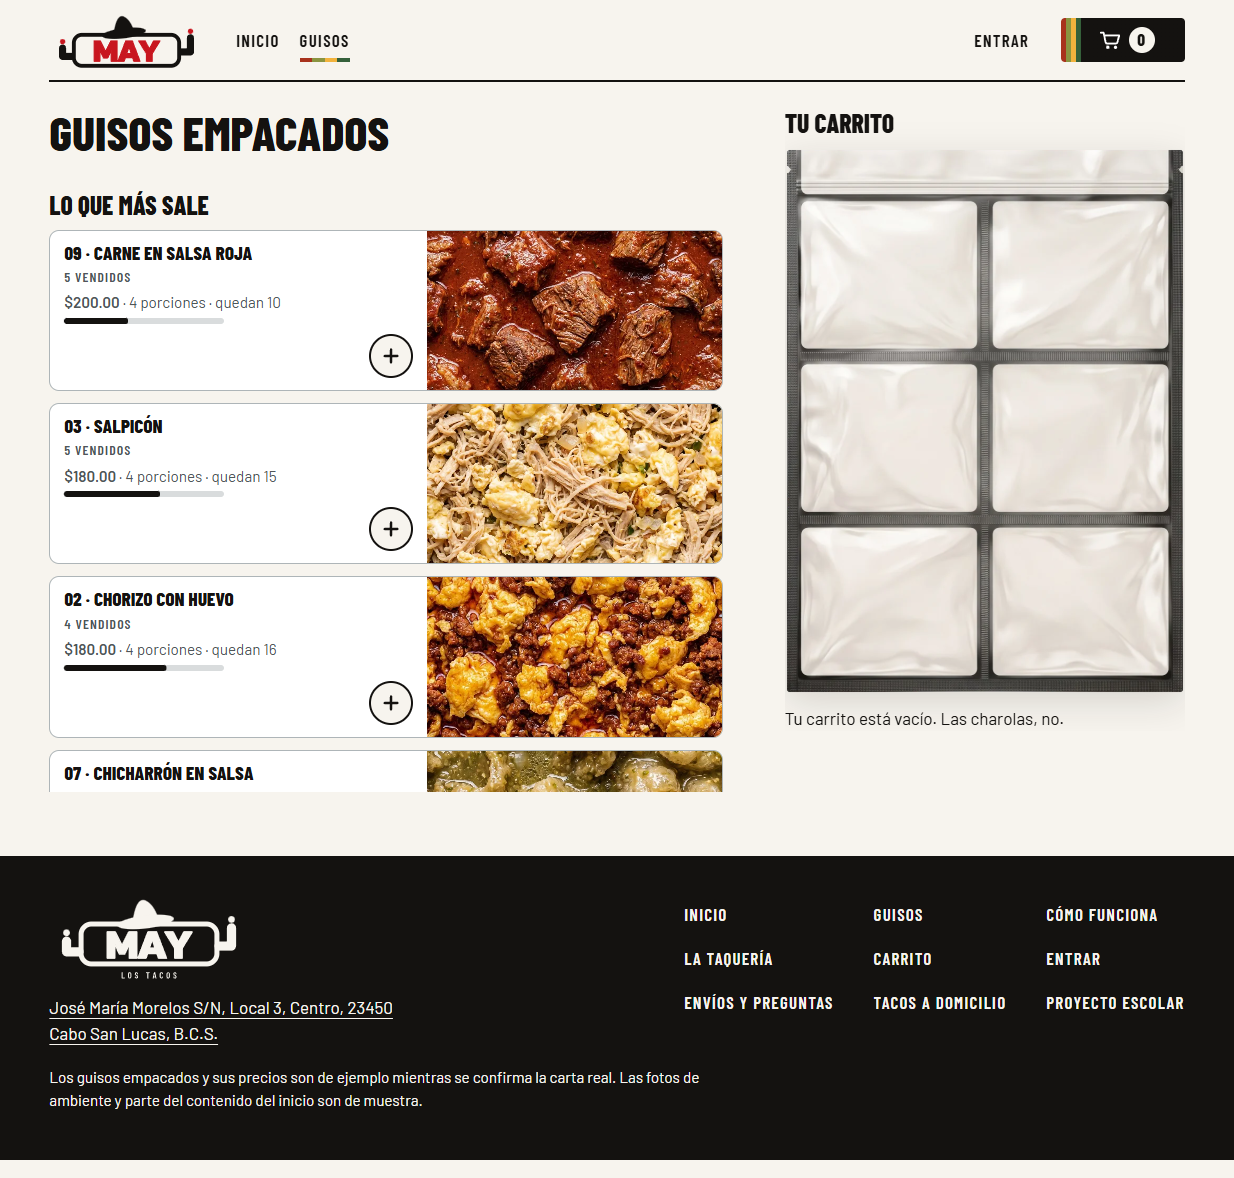
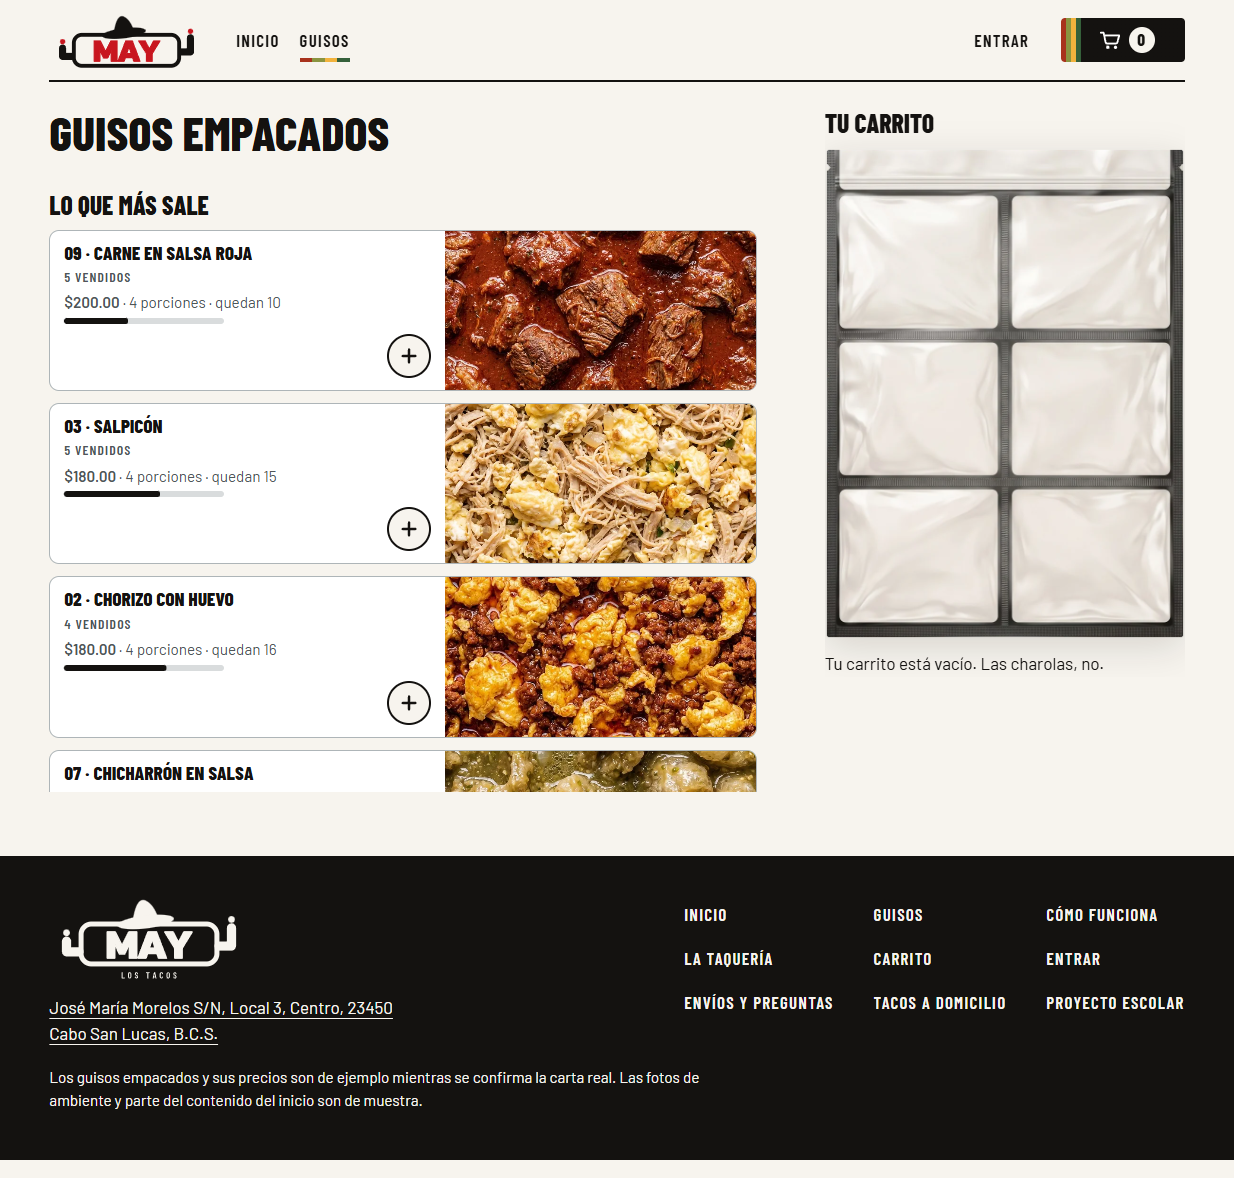
docs(calidad): lista y bolsa medidas a 5 anchos; carrito real capturado con respuestas simuladas

Changed region(s): [[0.3079, 0.0917, 0.9854, 0.6723]]

diff --git a/docs/calidad/critica-diseno.md b/docs/calidad/critica-diseno.md
@@ -128,3 +128,27 @@ usan las hojas compartidas** — `/`, `/tienda/` (lista, ficha, carrito, entrar,
 orden, entrega, pagar, seguimiento), `/proyecto/` y la 404 — a **390, 1234 y 1440**. Las capturas de esta vuelta
 están en `capturas/despues/` (39 pantallas, más la lista de la tienda a 1920); en las 40, `scrollWidth` = ancho
 de la ventana.
+
+## Lista y bolsa de la tienda: una sola regla (`6b6fcad`)
+
+El arreglo anterior (lista de 760 px + bolsa de 400 px alineadas a la izquierda) dejaba ~110 px muertos a la
+derecha de la bolsa a 1440. Ahora la rejilla es **`minmax(0, 1fr) clamp(360px, 30%, 520px)` con 56 px fijos
+entre las dos**, y los renglones ya no tienen `max-width` propio. Medido en el DOM ya pintado:
+
+| Ancho | Lista ↔ cabecera (izq.) | Entre lista y bolsa | Bolsa ↔ cabecera (der.) | Bolsa |
+|---|---|---|---|---|
+| 1100 | 0 | 56 | 0 | 360 |
+| 1234 | 0 | 56 | 0 | 360 |
+| 1440 | 0 | 56 | 0 | 397 |
+| 1680 | 0 | 56 | 0 | 466 |
+| 1920 | 0 | 56 | 0 | 504 |
+
+**El aviso que caía sobre el pie.** «Inicia sesión para continuar» salía en el aviso fijo de abajo como error
+(los errores no se van solos), así que en páginas cortas tapaba el pie. No es un error: es el porqué de estar en
+la pantalla de entrar. Ahora va **bajo el título de iniciar sesión** («Inicia sesión para ver tu carrito» o «tus
+pedidos») y el aviso fijo queda para confirmaciones y errores de verdad. Prueba en `app.test`.
+
+**El carrito, capturado de verdad** (`tienda-carrito-*`, `tienda-lista-con-bolsa-*`): sin crear cuentas ni
+iniciar sesión en el sitio publicado. En el Chrome de captura se respondieron `/api/carrito` y `/api/users/me` con
+datos de prueba (dos guisos reales del catálogo, sesión simulada); nada se escribe en el servidor ni en Redis.
+`tienda-entrar-desde-carrito-*` es la pantalla de entrar a la que se llega desde el carrito sin sesión.
